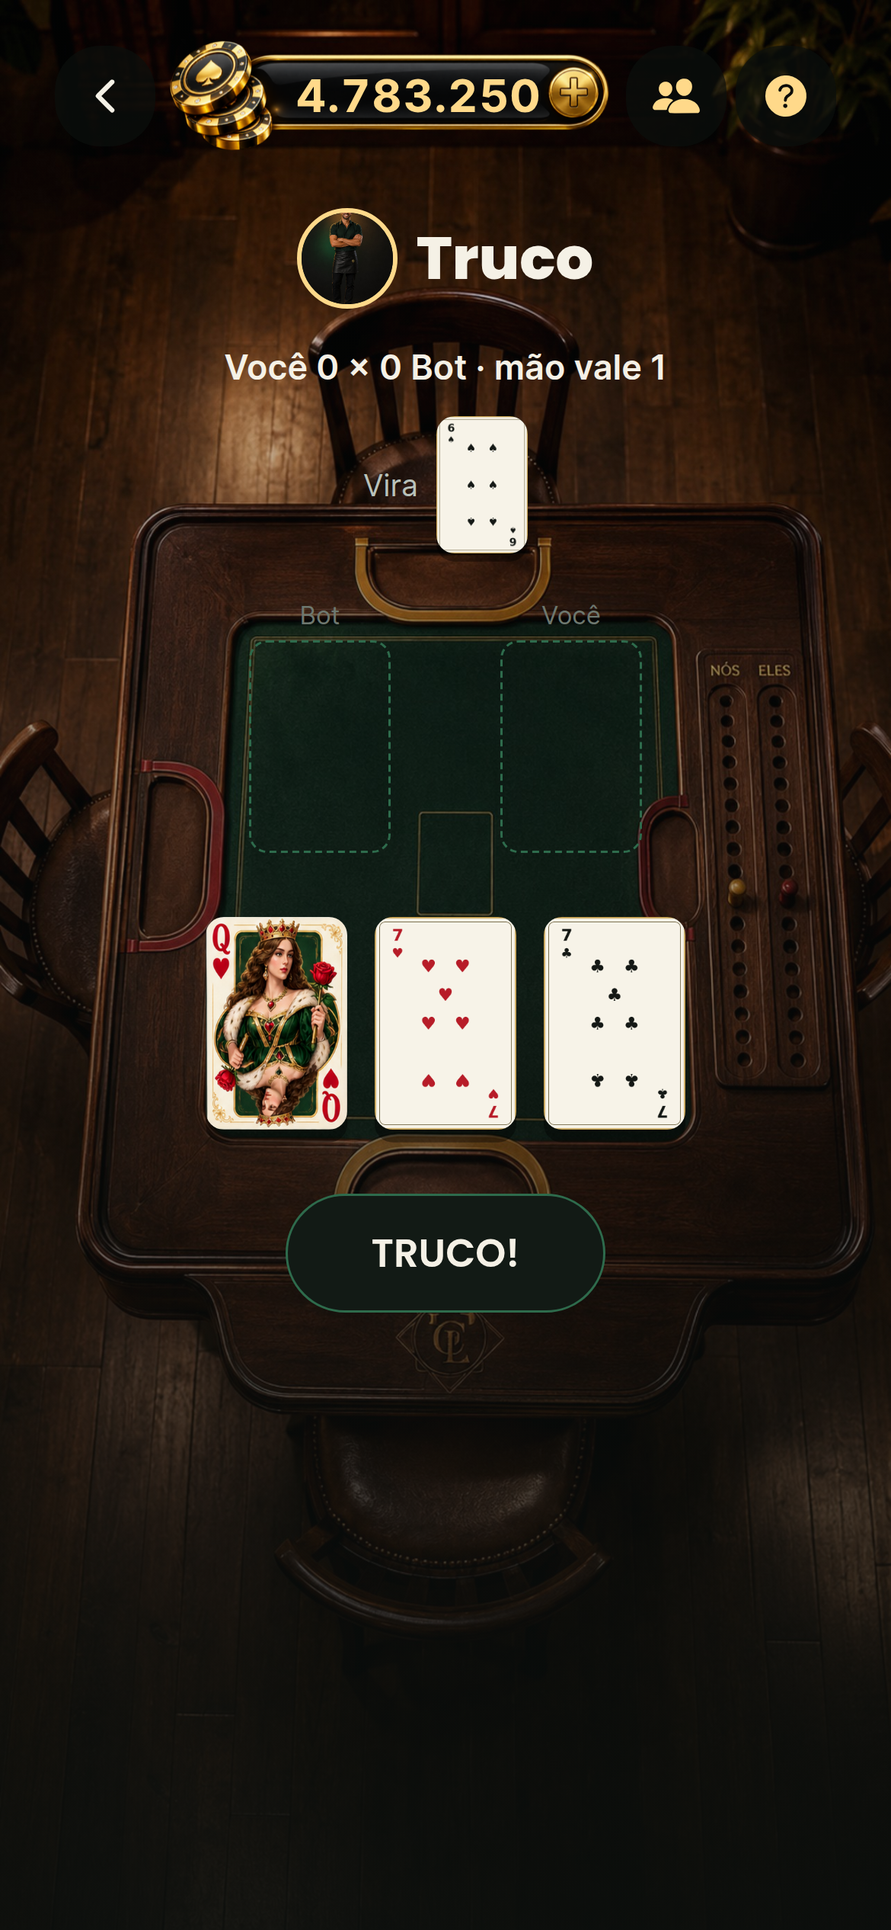
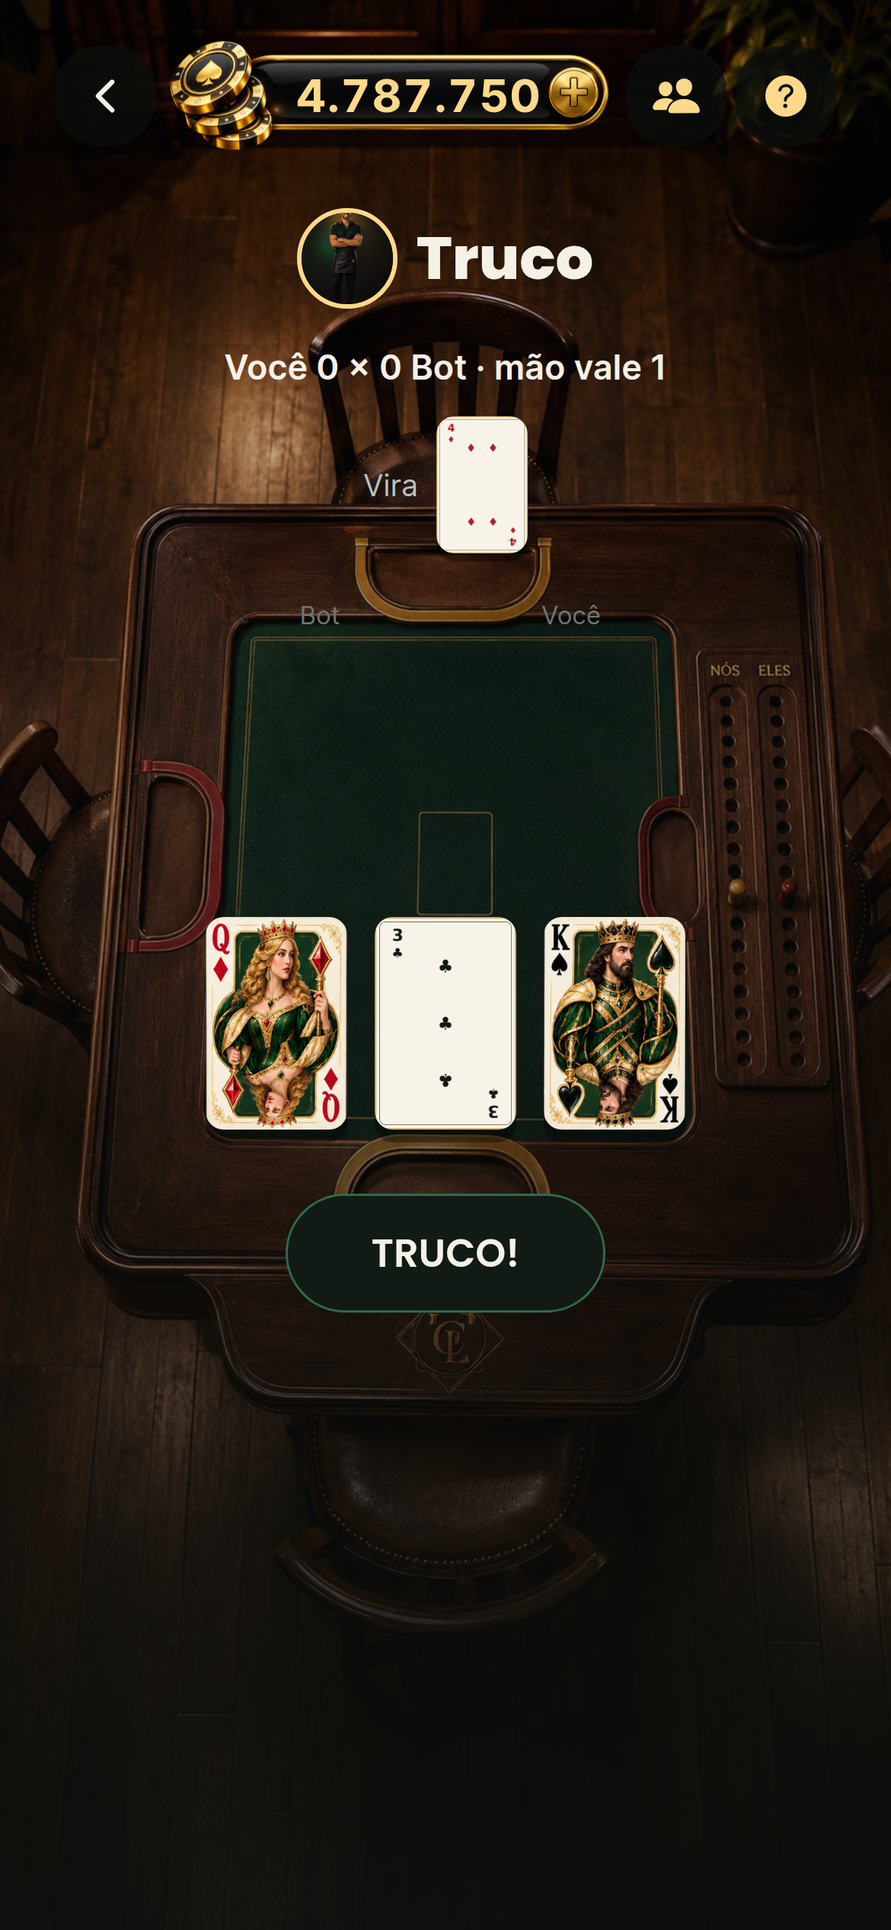
Banca francesa paga com ficha voando, e o trilho para de cortar rótulo
OS DEZ JOGOS AGORA PAGAM NA CENA — e eu tinha errado o diagnóstico

Escrevi que faltava um evento de socket carregando o valor pago na banca
francesa de mesa, e que isso era mudança de protocolo. Não era:
`lastRound.bySeat[eu].totalReturn` já vinha na mesa, e `lastRound.at` já
servia de marca de rodada. O que faltava era ler o que já estava lá.

O gatilho ali é `at`, a hora em que a rodada fechou — muda uma vez por
rodada e só quando ela fecha. Sem isso, qualquer atualização da mesa
(alguém sentando, um bot apostando) faria as fichas saírem de novo.

O TRILHO ESTAVA ESPREMIDO, E EU TINHA CONSERTADO O SINTOMA ERRADO

Duas tentativas antes desta: escolher o corpo da letra pelo NÚMERO DE
LETRAS do rótulo (funcionou no dominó, continuou cortando no pôquer), e
depois medir a largura da linha. Nenhuma resolveu, porque a causa era
outra: `safe` e `startBlock` têm `alignItems: 'center'`, e isso encolhe
todo filho até a largura do conteúdo. O trilho tinha 230 pontos em vez de
342 — "100 mil" virava "100 …" por falta de espaço, não por falta de
ajuste de letra.

`alignSelf: 'stretch'` nos seletores e nos blocos: as fichas passaram de
41 pra 64 pontos de largura, medido no navegador. O cabeçalho também
parou de colidir — "Entrada (o stack da mão)" e o valor são
`space-between`, e numa caixa estreita se encostavam.

O corpo da letra medido pela largura fica: ele é o certo pra quando a
linha for estreita de verdade (telas pequenas, rótulos em trilhões).
[…]

diff --git a/casino-inova/app/src/aposta/SeletorDeEntrada.tsx b/casino-inova/app/src/aposta/SeletorDeEntrada.tsx
@@ -14,7 +14,7 @@
  * QUEM NÃO TEM SALDO PRA NENHUMA ENTRADA recebe a frase que explica, com o número — e não
  * um seletor vazio nem um botão que toma erro do servidor depois de apertado.
  */
-import React from 'react';
+import React, { useState } from 'react';
 import { Pressable, StyleSheet, Text, View } from 'react-native';
 
 import { colors, fontFamily, fontSize, radius, spacing } from '../theme';
@@ -46,21 +46,32 @@ function curto(n: number): string {
 }
 
 /**
- * O CORPO DA LETRA SAI DO RÓTULO MAIS LONGO DO TRILHO.
+ * O CORPO DA LETRA SAI DA LARGURA MEDIDA, e não de uma contagem de caracteres.
  *
  * `adjustsFontSizeToFit` existe no iOS e NÃO existe no react-native-web — e o jogo chega
- * pelo navegador. No retrato de celular dá pra ver o resultado: com as cinco fichas
- * dividindo a largura, "100 mil" virava "100 …". Encolher só a última não resolve (as
- * cinco têm que ficar iguais), e cortar o texto é pior que letra menor.
+ * pelo navegador. A primeira tentativa escolheu o tamanho pelo número de letras do rótulo
+ * mais comprido: funcionou no dominó e continuou cortando no pôquer ("100 mil" virava
+ * "100 …"), porque as duas telas dão larguras diferentes ao trilho. Contar letra é chute;
+ * a largura é medida.
  *
- * Então o tamanho é escolhido uma vez, pelo rótulo mais comprido, e vale pras cinco.
+ * A conta: cada ficha recebe uma fatia igual da linha, menos o vão e o respiro interno. A
+ * largura de um dígito na fonte do trilho é ~0,58 do corpo — daí sai o corpo que faz o
+ * rótulo mais comprido caber. Os limites existem pelas duas pontas: abaixo de 10 não se lê,
+ * acima de 15 não fica melhor.
  */
-function corpoDoTrilho(rotulos: string[]): number {
+function corpoDoTrilho(rotulos: string[], larguraDaLinha: number, vao: number): number {
   const maior = rotulos.reduce((n, r) => Math.max(n, r.length), 0);
-  if (maior <= 5) return 15;   // "50", "1 mi"
-  if (maior <= 7) return 13;   // "100 mil", "2,5 bi"
-  return 11;                   // "500 mil", "100 tri"
+  if (maior === 0 || larguraDaLinha <= 0) return 13;
+  const porFicha = (larguraDaLinha - vao * (rotulos.length - 1)) / rotulos.length;
+  const util = porFicha - RESPIRO_DA_FICHA;
+  return Math.max(10, Math.min(15, Math.floor(util / (maior * 0.58))));
 }
+
+/** O que sobra de cada ficha pra borda e o respiro dos dois lados do texto. */
+const RESPIRO_DA_FICHA = 14;
+
+/** O vão entre uma ficha e a próxima. Constante porque a conta do corpo usa ele. */
+const VAO_DO_TRILHO = 6;
 
 export function SeletorDeEntrada({ opcoes, valor, aoMudar, legenda, travado = false }: Props) {
   if (opcoes.length === 0) {
@@ -75,10 +86,19 @@ export function SeletorDeEntrada({ opcoes, valor, aoMudar, legenda, travado = fa
   }
 
   const escolhida = opcoes.find((o) => o.entrada === valor) ?? opcoes[0];
-  const corpo = corpoDoTrilho(opcoes.map((o) => curto(o.entrada)));
+  const [larguraDoTrilho, setLarguraDoTrilho] = useState(0);
+  const corpo = corpoDoTrilho(opcoes.map((o) => curto(o.entrada)), larguraDoTrilho, VAO_DO_TRILHO);
 
   return (
-    <View>
+    /*
+     * O SELETOR SE ESTICA NA LARGURA DO BLOCO, e isto é dele e não de cada tela.
+     *
+     * Sem `alignSelf: 'stretch'`, um bloco com `alignItems: 'center'` encolhe o filho até a
+     * largura do conteúdo — foi o que aconteceu no pôquer: o trilho ficou com 238 pontos
+     * em vez de 342, e "100 mil" virou "100 …" mesmo com o corpo da letra já medido. Duas
+     * telas com o mesmo componente não podem depender de cada uma lembrar de esticá-lo.
+     */
+    <View style={estilos.raiz}>
       <View style={estilos.cabecalho}>
         <Text style={estilos.rotulo}>Entrada{legenda ? ` (${legenda})` : ''}</Text>
         <Text style={estilos.valor}>{escolhida.entrada.toLocaleString('pt-BR')}</Text>
@@ -95,7 +115,7 @@ export function SeletorDeEntrada({ opcoes, valor, aoMudar, legenda, travado = fa
         desligada) e sem sombra de continuação. São sempre cinco (as fichas do degrau), e
         cinco dividem a largura sem sobra.
       */}
-      <View style={estilos.trilho}>
+      <View style={estilos.trilho} onLayout={(e) => setLarguraDoTrilho(e.nativeEvent.layout.width)}>
         {opcoes.map((opcao) => {
           const ativa = opcao.entrada === escolhida.entrada;
           return (
@@ -123,6 +143,7 @@ export function SeletorDeEntrada({ opcoes, valor, aoMudar, legenda, travado = fa
 }
 
 const estilos = StyleSheet.create({
+  raiz: { alignSelf: 'stretch' },
   cabecalho: { flexDirection: 'row', alignItems: 'baseline', justifyContent: 'space-between' },
   /*
    * O RÓTULO ERA ILEGÍVEL SOBRE A MESA. `textFaint` é um cinza pensado pra fundo de
@@ -133,7 +154,7 @@ const estilos = StyleSheet.create({
   rotulo: { fontFamily: fontFamily.body, fontSize: fontSize.sm, color: colors.textSecondary },
   valor: { fontFamily: fontFamily.displayBold, fontSize: fontSize.xl, color: colors.textPrimary },
   cegas: { fontFamily: fontFamily.body, fontSize: fontSize.xs, color: colors.textFaint, marginTop: 2 },
-  trilho: { flexDirection: 'row', gap: spacing.xs, paddingVertical: spacing.sm, alignItems: 'center' },
+  trilho: { flexDirection: 'row', gap: VAO_DO_TRILHO, paddingVertical: spacing.sm, alignItems: 'center' },
   ficha: {
     flex: 1,
     minWidth: 0,

diff --git a/casino-inova/app/src/aposta/SeletorDeAposta.tsx b/casino-inova/app/src/aposta/SeletorDeAposta.tsx
@@ -19,7 +19,7 @@
  * explica, com o número. Um seletor que aceita e depois toma 400 do servidor é pior que
  * um seletor que diz não.
  */
-import React from 'react';
+import React, { useState } from 'react';
 import { Pressable, StyleSheet, Text, View } from 'react-native';
 
 import { colors, fontFamily, fontSize, radius, spacing } from '../theme';
@@ -46,21 +46,32 @@ function curto(n: number): string {
 }
 
 /**
- * O CORPO DA LETRA SAI DO RÓTULO MAIS LONGO DO TRILHO.
+ * O CORPO DA LETRA SAI DA LARGURA MEDIDA, e não de uma contagem de caracteres.
  *
  * `adjustsFontSizeToFit` existe no iOS e NÃO existe no react-native-web — e o jogo chega
- * pelo navegador. No retrato de celular dá pra ver o resultado: com as cinco fichas
- * dividindo a largura, "100 mil" virava "100 …". Encolher só a última não resolve (as
- * cinco têm que ficar iguais), e cortar o texto é pior que letra menor.
+ * pelo navegador. A primeira tentativa escolheu o tamanho pelo número de letras do rótulo
+ * mais comprido: funcionou no dominó e continuou cortando no pôquer ("100 mil" virava
+ * "100 …"), porque as duas telas dão larguras diferentes ao trilho. Contar letra é chute;
+ * a largura é medida.
  *
- * Então o tamanho é escolhido uma vez, pelo rótulo mais comprido, e vale pras cinco.
+ * A conta: cada ficha recebe uma fatia igual da linha, menos o vão e o respiro interno. A
+ * largura de um dígito na fonte do trilho é ~0,58 do corpo — daí sai o corpo que faz o
+ * rótulo mais comprido caber. Os limites existem pelas duas pontas: abaixo de 10 não se lê,
+ * acima de 15 não fica melhor.
  */
-function corpoDoTrilho(rotulos: string[]): number {
+function corpoDoTrilho(rotulos: string[], larguraDaLinha: number, vao: number): number {
   const maior = rotulos.reduce((n, r) => Math.max(n, r.length), 0);
-  if (maior <= 5) return 15;   // "50", "1 mi"
-  if (maior <= 7) return 13;   // "100 mil", "2,5 bi"
-  return 11;                   // "500 mil", "100 tri"
+  if (maior === 0 || larguraDaLinha <= 0) return 13;
+  const porFicha = (larguraDaLinha - vao * (rotulos.length - 1)) / rotulos.length;
+  const util = porFicha - RESPIRO_DA_FICHA;
+  return Math.max(10, Math.min(15, Math.floor(util / (maior * 0.58))));
 }
+
+/** O que sobra de cada ficha pra borda e o respiro dos dois lados do texto. */
+const RESPIRO_DA_FICHA = 14;
+
+/** O vão entre uma ficha e a próxima. Constante porque a conta do corpo usa ele. */
+const VAO_DO_TRILHO = 6;
 
 export function SeletorDeAposta({ faixa, valor, aoMudar, travado = false }: Props) {
   if (!podeApostar(faixa)) {
@@ -76,7 +87,8 @@ export function SeletorDeAposta({ faixa, valor, aoMudar, travado = false }: Prop
   }
 
   const fichas = atalhos(faixa);
-  const corpo = corpoDoTrilho(fichas.map(curto));
+  const [larguraDoTrilho, setLarguraDoTrilho] = useState(0);
+  const corpo = corpoDoTrilho(fichas.map(curto), larguraDoTrilho, VAO_DO_TRILHO);
   const mudar = (novo: number) => { if (!travado) aoMudar(novo); };
 
   return (
@@ -106,7 +118,7 @@ export function SeletorDeAposta({ faixa, valor, aoMudar, travado = false }: Prop
         E some um `ScrollView` de dentro da área de jogo, que é o gesto de documento que o
         diagnóstico pediu pra tirar das mesas.
       */}
-      <View style={estilos.trilho}>
+      <View style={estilos.trilho} onLayout={(e) => setLarguraDoTrilho(e.nativeEvent.layout.width)}>
         {fichas.map((ficha) => {
           const escolhida = ficha === valor;
           return (
@@ -160,7 +172,9 @@ function Atalho({ rotulo, descricao, aoTocar, travado, largo = false }: {
 }
 
 const estilos = StyleSheet.create({
-  caixa: { width: '100%', gap: spacing.sm, marginTop: spacing.lg },
+  /* `alignSelf: 'stretch'` pelo mesmo motivo do seletor de entrada: `width: '100%'` não
+   * basta dentro de um bloco com `alignItems: 'center'`, que encolhe o filho antes. */
+  caixa: { width: '100%', alignSelf: 'stretch', gap: spacing.sm, marginTop: spacing.lg },
   topo: { alignItems: 'center' },
   rotulo: { fontFamily: fontFamily.body, fontSize: fontSize.xs, color: colors.textFaint },
   valor: { fontFamily: fontFamily.displayBold, fontSize: fontSize.xl, color: colors.textPrimary },
@@ -173,7 +187,7 @@ const estilos = StyleSheet.create({
   trilho: {
     alignSelf: 'stretch',
     flexDirection: 'row',
-    gap: spacing.xs,
+    gap: VAO_DO_TRILHO,
     alignItems: 'center',
     minWidth: 0,
   },

diff --git a/casino-inova/app/src/screens/games/BancaFrancesaMesaScreen.tsx b/casino-inova/app/src/screens/games/BancaFrancesaMesaScreen.tsx
@@ -16,6 +16,7 @@ import { SocketError } from '../../api/socket';
 import { BancaFrancesaBet, BancaFrancesaConfig, fetchBancaFrancesaConfig } from '../../api/bancaFrancesa';
 import { MeuNivel, fetchMeuNivel } from '../../api/niveis';
 import { usePlayer, saldoChegouDeFora } from '../../data/usePlayer';
+import { PagamentoNaMesa, type Pagamento } from '../../components/PagamentoNaMesa';
 import { PanoDaBancaFrancesa } from './PanoDaBancaFrancesa';
 import { fetchFriends, Friend } from '../../api/friends';
 import {
@@ -51,6 +52,8 @@ function errorMessage(error: unknown): string {
 
 export function BancaFrancesaMesaScreen({ navigation }: Props) {
   const [table, setTable] = useState<TableView | null>(null);
+  /* O pagamento que vai voar até o saldo. Ver o efeito que o dispara, logo abaixo. */
+  const [pagamento, setPagamento] = useState<Pagamento | null>(null);
   const [publicTables, setPublicTables] = useState<PublicTableSummary[]>([]);
   const [friends, setFriends] = useState<Friend[]>([]);
   const [codeInput, setCodeInput] = useState('');
@@ -99,6 +102,28 @@ export function BancaFrancesaMesaScreen({ navigation }: Props) {
   useEffect(() => {
     if (typeof meuSaldoNaMesa === 'number') saldoChegouDeFora(meuSaldoNaMesa);
   }, [meuSaldoNaMesa]);
+
+  /*
+   * O PRÊMIO VOA AQUI — e esta mesa precisou de um caminho próprio.
+   *
+   * Nos outros nove jogos o crédito chega como resposta de uma rodada, e o voo sai logo
+   * depois, na mesma linha de código. Aqui a mesa é de várias pessoas e o estado chega
+   * pelo socket: o que existe é `lastRound.bySeat[eu].totalReturn`, o que ESTA rodada me
+   * pagou, e `lastRound.at`, a hora em que ela fechou.
+   *
+   * `at` é o que serve de contador: ele muda uma vez por rodada e só quando a rodada
+   * fecha. Sem ele, qualquer atualização da mesa — alguém sentando, um bot apostando —
+   * faria as fichas saírem de novo.
+   *
+   * O valor continua vindo do servidor. A tela não subtrai saldo nenhum.
+   */
+  const rodadaQueFechou = table?.lastRound?.at;
+  const meuRetorno = table?.lastRound?.bySeat[usuarioLogadoId() ?? '']?.totalReturn ?? 0;
+  useEffect(() => {
+    if (!rodadaQueFechou || meuRetorno <= 0) return;
+    /* A hora vira número: é só uma marca de "rodada diferente", não uma medida de tempo. */
+    setPagamento({ valor: meuRetorno, rodada: Date.parse(rodadaQueFechou) });
+  }, [rodadaQueFechou]);
 
   useEffect(() => {
     fetchBancaFrancesaConfig().then(setConfig).catch(() => undefined);
@@ -253,6 +278,9 @@ export function BancaFrancesaMesaScreen({ navigation }: Props) {
   if (table) {
     return (
       <>
+        {/* O prêmio sai do pano, onde as fichas estavam encostadas. */}
+        <PagamentoNaMesa pagamento={pagamento} deOndeSai={{ x: 0.5, y: 0.6 }} />
+
         <PanoDaBancaFrancesa
           mesa={table}
           meuId={usuarioLogadoId()}

diff --git a/casino-inova/app/src/screens/games/TrucoScreen.tsx b/casino-inova/app/src/screens/games/TrucoScreen.tsx
@@ -352,7 +352,8 @@ const styles = StyleSheet.create({
   errorBox: { marginTop: spacing.xxxl, alignItems: 'center', gap: spacing.xs, paddingHorizontal: spacing.lg },
   errorText: { fontFamily: fontFamily.bodyMedium, fontSize: fontSize.sm, color: colors.danger, textAlign: 'center' },
   errorHint: { fontFamily: fontFamily.body, fontSize: fontSize.xs, color: colors.textFaint, textAlign: 'center' },
-  startBlock: { alignItems: 'center', gap: spacing.md, marginTop: spacing.xxxl },
+  /* Estica na largura da tela: ver o mesmo conserto no pôquer, e o porquê. */
+  startBlock: { alignSelf: 'stretch', alignItems: 'center', gap: spacing.md, marginTop: spacing.xxxl },
   resultLabel: { fontFamily: fontFamily.bodySemiBold, fontSize: fontSize.base, textAlign: 'center', maxWidth: 280 },
   resultWin: { color: colors.goldBright },
   resultLoss: { color: colors.textFaint },
@@ -368,14 +369,19 @@ const styles = StyleSheet.create({
     maxWidth: 300,
   },
   playedRow: { flexDirection: 'row', gap: spacing.xxxl, marginTop: spacing.sm },
-  /* A vaga da carta ainda não jogada: o mesmo tamanho da carta, só que vazia. */
+  /*
+   * A VAGA DA CARTA É ESPAÇO, E NÃO UM RETÂNGULO TRACEJADO.
+   *
+   * Eram dois retângulos de borda tracejada verde desenhados no meio do tampo, um pra cada
+   * lado — no retrato de celular eles são a coisa mais chamativa da mesa, mais que as
+   * cartas. Numa mesa de truco ninguém pinta o lugar onde a carta vai: a carta vai onde a
+   * mão alcança, e o lugar dela existe por estar vazio.
+   *
+   * A altura continua reservada, senão a mesa pula quando a primeira carta é jogada.
+   */
   vagaVazia: {
     width: LARGURA_DA_CARTA,
     height: Math.round(LARGURA_DA_CARTA * 1.5),
-    borderRadius: radius.sm,
-    borderWidth: 1,
-    borderStyle: 'dashed',
-    borderColor: colors.feltLine,
   },
   playedSlot: { alignItems: 'center', gap: spacing.xs },
   playedLabel: { fontFamily: fontFamily.body, fontSize: fontSize.xs, color: colors.textFaint },

diff --git a/casino-inova/server/src/modules/wallet/verifica-devolucao.ts b/casino-inova/server/src/modules/wallet/verifica-devolucao.ts
@@ -56,7 +56,39 @@ async function main() {
     console.log('\n=== O QUE FICOU PRESO VOLTA ===\n');
     console.log('--- 1. uma mão que não terminou segura a aposta ---\n');
 
-    await blackjack.startHand(id, APOSTA);
+    /*
+     * UMA MÃO QUE FICA ABERTA — e não é toda mão que fica.
+     *
+     * A primeira versão desta conferência dava um `startHand` e seguia. Ela passou muitas
+     * vezes e um dia reprovou com "esperado 950.000, real 1.075.000": a mão tinha saído
+     * BLACKJACK NATURAL, que liquida na hora e paga 2,5x. O saldo não baixou porque a mão
+     * nem chegou a existir aberta — não havia nada preso pra devolver.
+     *
+     * Falha intermitente é a pior espécie: ela some quando se olha e volta quando não se
+     * está olhando. Aqui a conferência PRECISA de uma mão presa, então ela distribui até
+     * conseguir uma, e desiste em voz alta se não conseguir.
+     *
+     * A sapata tem oito baralhos: a chance de vinte mãos seguidas saírem natural é de uma
+     * em 10^20. Se isso acontecer, o problema não é o teste.
+     */
+    let abriu = false;
+    for (let tentativa = 1; tentativa <= 20 && !abriu; tentativa += 1) {
+      const mao = await blackjack.startHand(id, APOSTA);
+      if (!mao.finished) {
+        abriu = true;
+        break;
+      }
+      /* Liquidou na hora (blackjack natural): devolve o saldo ao ponto de partida. */
+      const saldoAgora = await wallet.balanceOf(id);
+      if (saldoAgora !== SALDO) {
+        await db.query(
+          `INSERT INTO ledger_entries (user_id, type, amount, origin) VALUES ($1,'ajuste',$2,'teste')`,
+          [id, SALDO - saldoAgora],
+        );
+      }
+    }
+    confere('consegui abrir uma mão que fica em pé', abriu, 'vinte mãos seguidas liquidaram sozinhas');
+
     const saldoComAMaoAberta = await wallet.balanceOf(id);
     confere(
       'a aposta saiu do saldo assim que a mão abriu',

diff --git a/casino-inova/app/src/screens/games/PokerScreen.tsx b/casino-inova/app/src/screens/games/PokerScreen.tsx
@@ -277,7 +277,16 @@ const styles = StyleSheet.create({
   errorBox: { marginTop: spacing.xxxl, alignItems: 'center', gap: spacing.xs, paddingHorizontal: spacing.lg },
   errorText: { fontFamily: fontFamily.bodyMedium, fontSize: fontSize.sm, color: colors.danger, textAlign: 'center' },
   errorHint: { fontFamily: fontFamily.body, fontSize: fontSize.xs, color: colors.textFaint, textAlign: 'center' },
-  startBlock: { alignItems: 'center', gap: spacing.md, marginTop: spacing.xl },
+  /*
+   * O BLOCO SE ESTICA NA LARGURA DA TELA.
+   *
+   * `safe` tem `alignItems: 'center'`, e isso faz todo filho encolher até a largura do
+   * conteúdo. O trilho de entradas ficava com 230 pontos em vez de 342, e "100 mil" virava
+   * "100 …" por falta de espaço, não por falta de ajuste de letra. O cabeçalho também
+   * colidia: "Entrada (o stack da mão)" e o valor são `space-between`, e numa caixa
+   * estreita eles se encostam.
+   */
+  startBlock: { alignSelf: 'stretch', alignItems: 'center', gap: spacing.md, marginTop: spacing.xl },
   showdownBlock: { alignItems: 'center', gap: spacing.sm, marginBottom: spacing.md },
   showdownHands: { flexDirection: 'row', gap: spacing.xxxl, marginTop: spacing.sm },
   resultLabel: { fontFamily: fontFamily.bodySemiBold, fontSize: fontSize.base, textAlign: 'center', maxWidth: 300 },

diff --git a/casino-inova/app/src/screens/games/DominoScreen.tsx b/casino-inova/app/src/screens/games/DominoScreen.tsx
@@ -356,7 +356,8 @@ const styles = StyleSheet.create({
   errorBox: { marginTop: spacing.xxxl, alignItems: 'center', gap: spacing.xs, paddingHorizontal: spacing.lg },
   errorText: { fontFamily: fontFamily.bodyMedium, fontSize: fontSize.sm, color: colors.danger, textAlign: 'center' },
   errorHint: { fontFamily: fontFamily.body, fontSize: fontSize.xs, color: colors.textFaint, textAlign: 'center' },
-  startBlock: { alignItems: 'center', gap: spacing.md, marginTop: spacing.xxxl },
+  /* Estica na largura da tela: ver o mesmo conserto no pôquer, e o porquê. */
+  startBlock: { alignSelf: 'stretch', alignItems: 'center', gap: spacing.md, marginTop: spacing.xxxl },
   aviso: {
     fontFamily: fontFamily.bodySemiBold,
     fontSize: fontSize.sm,

diff --git a/casino-inova/docs/jogos-antes-e-depois.md b/casino-inova/docs/jogos-antes-e-depois.md
@@ -184,7 +184,12 @@ ganhou. Era isso que o olho procurava e não achava.
 `PagamentoNaMesa`: as fichas partem de onde a aposta estava — a casa vencedora no bacará,
 a grade no caça-níqueis, a posição no stock market, o pano na roleta e no bac bo, o círculo
 do jogador no blackjack, o pote no pôquer, a mesa no truco e no dominó — e sobem até o
-saldo, no topo. Nove dos dez jogos.
+saldo, no topo. Os dez jogos.
+
+Na banca francesa de mesa o caminho é outro, porque a mesa é de várias pessoas e o estado
+chega pelo socket: o gatilho é `lastRound.at`, a hora em que a rodada fechou — ela muda uma
+vez por rodada e só quando a rodada fecha. Sem esse gatilho, qualquer atualização da mesa
+(alguém sentando, um bot apostando) faria as fichas saírem de novo.
 
 **E o valor vem do servidor, sempre.** Truco e dominó não publicavam quanto a partida tinha
 pago: a tela PODERIA ter subtraído o saldo de antes do de agora, e é exatamente por isso
@@ -221,11 +226,11 @@ Pela ordem do diagnóstico, o que ainda não foi feito:
 2. **Tirar a rolagem** das sete telas que ainda rolam na mesa (o orçamento está em
    `verify:apresentacao` e só pode cair). Nenhuma delas transborda hoje — são dívida
    potencial, não defeito visível.
-3. **A cena contando o resultado na banca francesa online.** Nove dos dez jogos já pagam
-   com a ficha voando. A banca francesa de mesa é a exceção e o motivo é de arquitetura,
-   não de descuido: lá o crédito não chega como resposta de uma rodada — chega como
-   atualização do assento pelo socket. Ligar o voo ali exige um evento que carregue o
-   valor pago, e isso é mudança de protocolo, não de tela.
+3. ~~A cena contando o resultado na banca francesa online.~~ **Feito — e eu tinha errado
+   o diagnóstico.** Escrevi que faltava um evento carregando o valor pago, e que isso era
+   mudança de protocolo. Não era: `lastRound.bySeat[eu].totalReturn` já vinha na mesa, e
+   `lastRound.at` já servia de marca de rodada. O que faltava era ler o que já estava lá.
+   Os dez jogos pagam com a ficha voando.
 4. **O que depende de renderer** — reel engine do caça-níqueis, roda da roleta com
    física, shakers do bac bo — continua esperando a medição em aparelho
    (`RENDERING_STRATEGY.md` §6). Nada disso é pré-requisito dos três itens acima.
